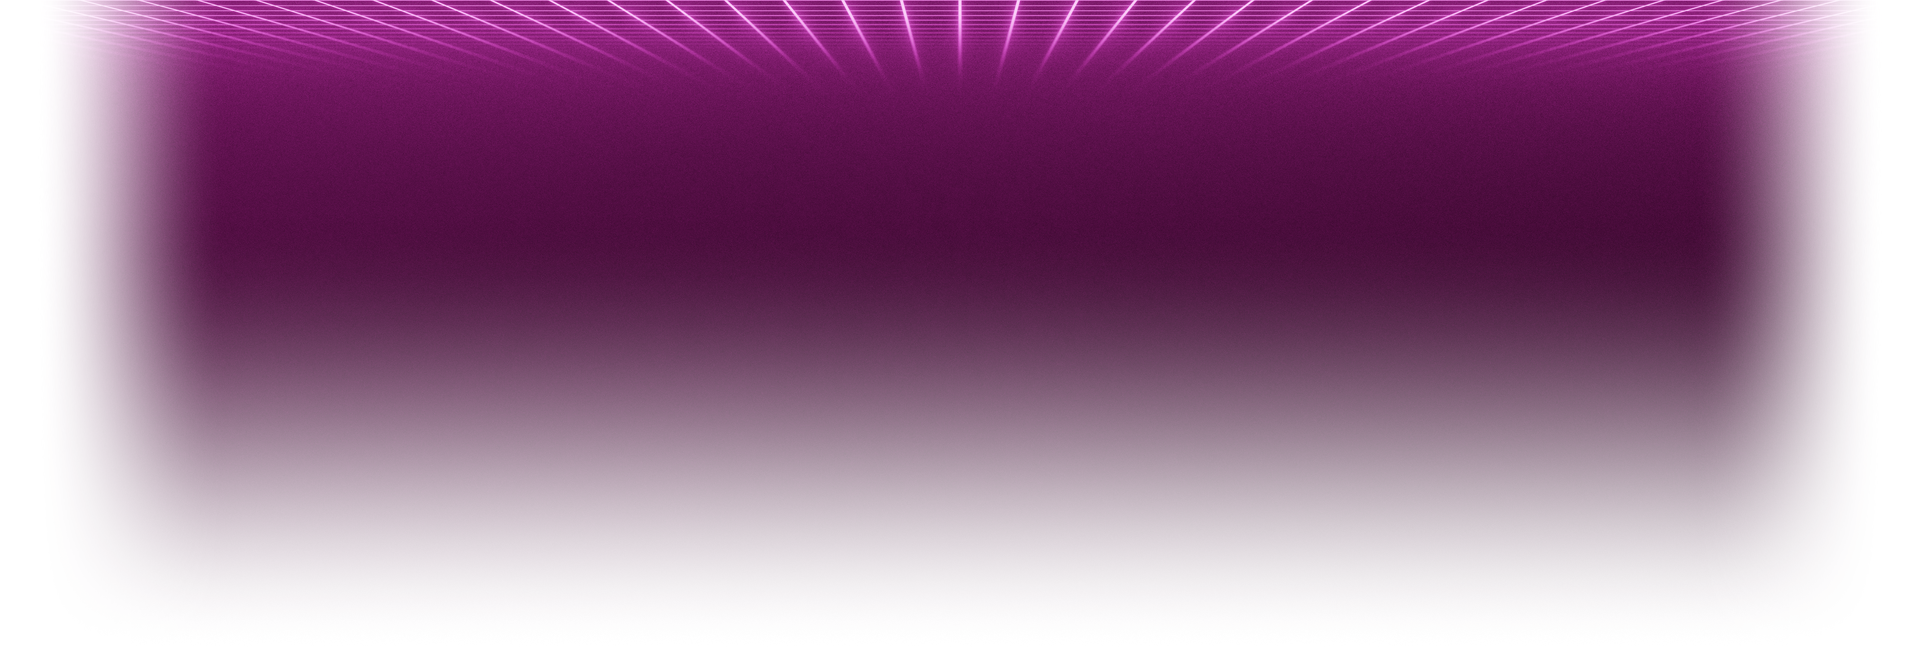
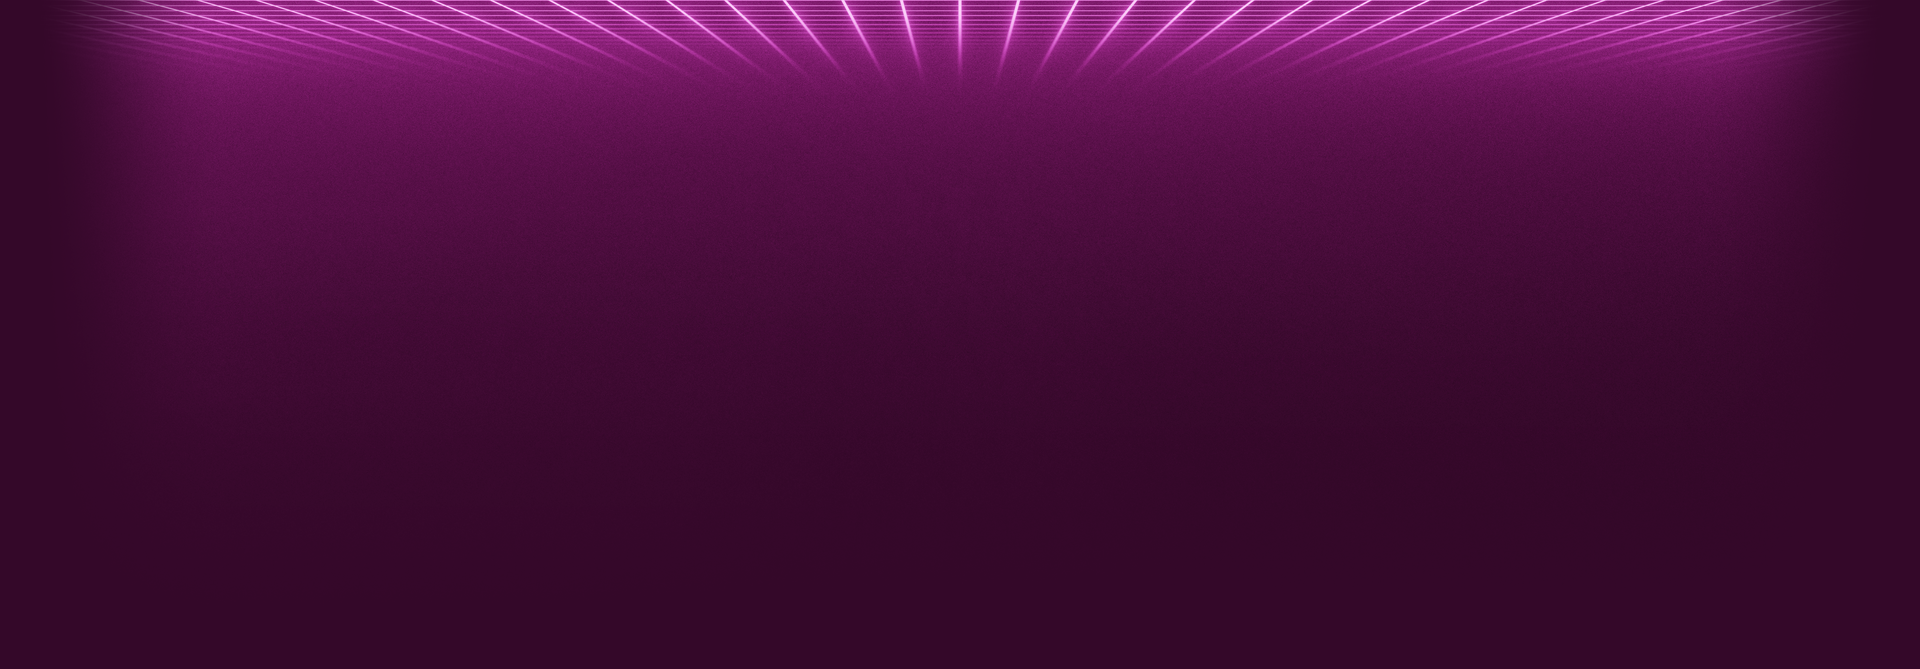
optimized background image

diff --git a/css/dark.css b/css/dark.css
@@ -15,7 +15,7 @@
 	
 	.site
 	{
-  		background: url('../images/bg.png');
+  		background: url('../images/bg.jpg');
 		margin:0;
         background-position:top;
 		background-repeat: no-repeat;
